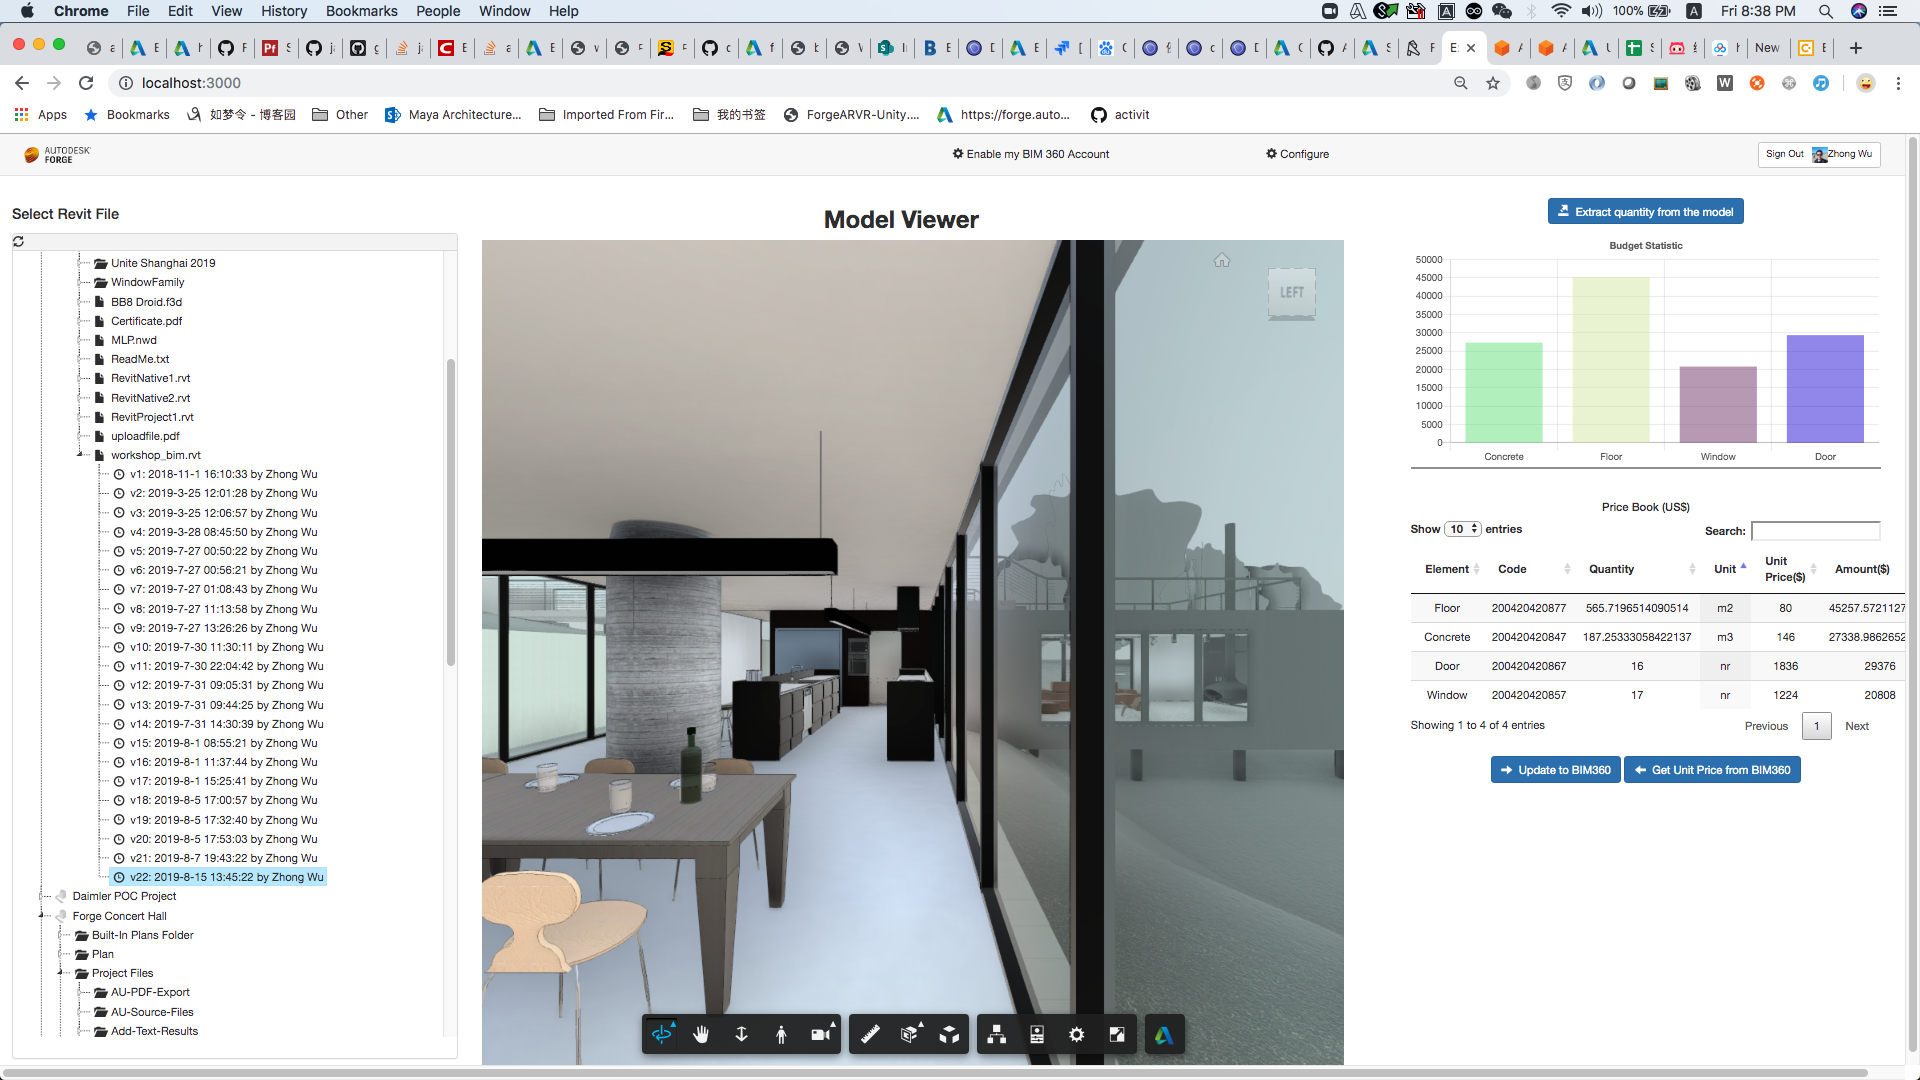
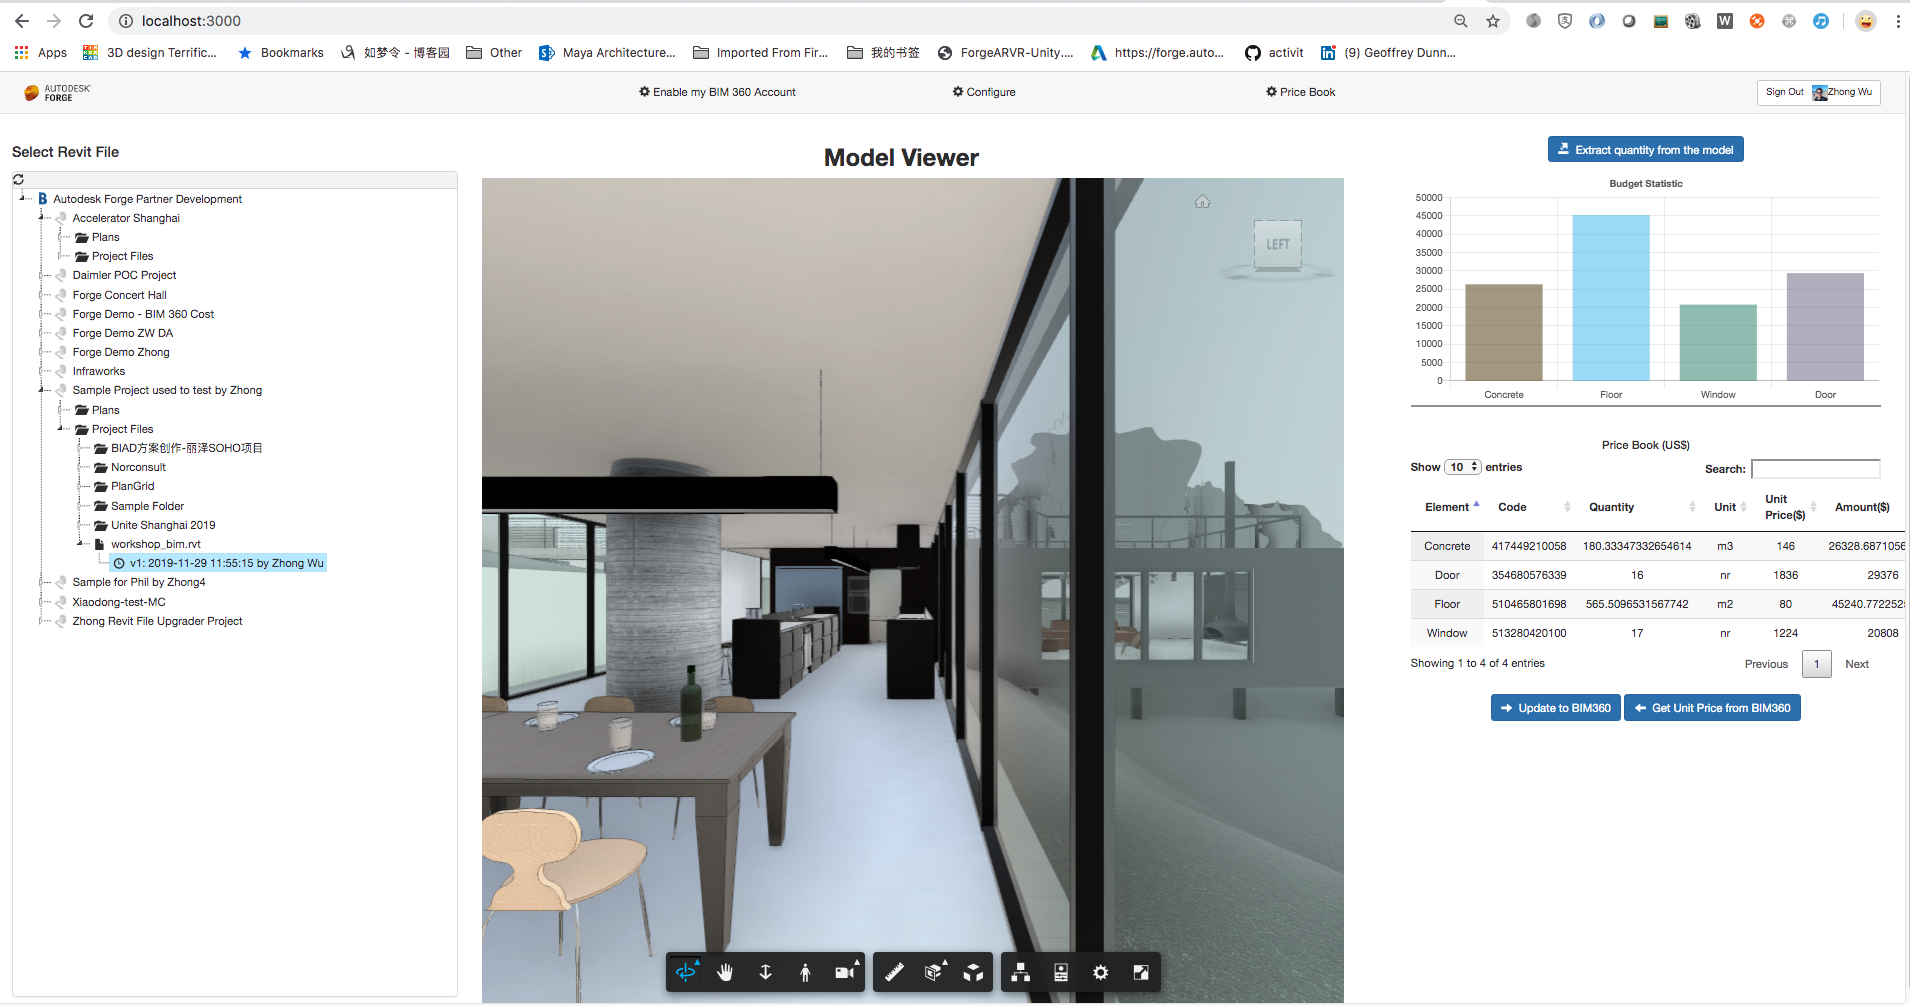
update readme and fix some issues

Changed region(s): [[0.0, 0.0, 1.0, 1.0]]

diff --git a/public/js/ForgeDesignAutomation.js b/public/js/ForgeDesignAutomation.js
@@ -20,16 +20,6 @@
 var budgetMgrInstance = null;
 
 ///////////////////////////////////////////////////////////////////////
-/// Generate random color
-///////////////////////////////////////////////////////////////////////
-function random_rgba() {
-  var o = Math.round, r = Math.random, s = 255;
-  return 'rgba(' + o(r() * s) + ',' + o(r() * s) + ',' + o(r() * s) + ',' + 0.5 + ')';
-}
-
-
-
-///////////////////////////////////////////////////////////////////////
 /// Class to handle PriceBook database
 ///////////////////////////////////////////////////////////////////////
 class PriceBook {
@@ -42,7 +32,7 @@ class PriceBook {
     try {
       this.priceInfo = await getDataClientAsync(this.priceBookUrl);
     } catch (err) {
-      console.error(err);
+      console.log(err);
       this.priceInfo = null;
     }
   }
@@ -56,9 +46,19 @@ class PriceBook {
     return null;
   }
 
-  async updatePriceBook(budgetCode, unitPrice) {
+
+  getBudgetCodeLength(){
+    for (let key in this.priceInfo) {
+      if (this.priceInfo[key].budgetCodeLength != null) {
+        return this.priceInfo[key].budgetCodeLength;
+      }
+    }
+    return 0;
+  }
+
+  async updatePriceBook(budgetName, unitPrice) {
     const requestBody = {
-      budgetCode: budgetCode,
+      type: budgetName,
       unitPrice: unitPrice
     };
     try {
@@ -163,12 +163,12 @@ class BudgetTable {
       this.table.data().toArray().forEach((budgetItem) => {
         const item = {
           parentId: null,
-          code: budgetItem[1],
           name: budgetItem[0],
+          code: budgetItem[1],
           quantity: budgetItem[2],
-          description: "",
           unit: budgetItem[3],
-          unitPrice: budgetItem[4].toString()
+          unitPrice: budgetItem[4].toString(),
+          description: "budget description"
         }
         budgetData.push(item);
       })
@@ -176,13 +176,13 @@ class BudgetTable {
     return budgetData;
   }
 
-  updateBudgetsTable(budgetCode, unitPrice, amount) {
+  updateBudgetsTable(budgetName, unitPrice, amount) {
     if (this.table !== null) {
       let tableData = this.table.data();
       const budgetCount = tableData.length;
       // reset the data
       for (let i = 0; i < budgetCount; ++i) {
-        if (tableData[i][1] === budgetCode) {
+        if (tableData[i][0] === budgetName) {
           tableData[i][4] = unitPrice;
           tableData[i][5] = amount;
           break;
@@ -241,7 +241,14 @@ class BudgetManager {
       this.workingItem = null;
     }
     if (status === 'completed' && this.currentModelNode != null) {
-      console.log('Parameters are handled');
+      console.log('Work item is completed');
+
+      const budgetCodeLength = this.priceBook.getBudgetCodeLength();
+      if(budgetCodeLength == 0){
+        alert("budget code length is not set, please set it in price book database first." );
+        this.drawTableCallback();
+        return;
+      }
 
       let bar_labels = [];
       let bar_elementBudget = [];
@@ -256,7 +263,7 @@ class BudgetManager {
         bar_labels.push(elementKey);
         const elementPriceInfo = this.priceBook.getPriceInfoForElement(elementKey);
         if(elementPriceInfo == null){
-          console.error("can not find the price info for element: " + elementKey);
+          console.log("can not find the price info for element: " + elementKey);
           continue;
         }
         const unitPrice = elementPriceInfo['Price'];
@@ -265,8 +272,9 @@ class BudgetManager {
 
         bar_elementBudget.push(elementBudget);
         bar_colors.push(random_rgba());
+        const budgetCode = makeBudgetCode(budgetCodeLength);
 
-        table_dataSet.push([elementKey, elementPriceInfo['Code'], elementCount, elementPriceInfo['Unit'], unitPrice, elementBudget]);
+        table_dataSet.push([elementKey, budgetCode, elementCount, elementPriceInfo['Unit'], unitPrice, elementBudget]);
       }
       this.budgetTable.refreshTable(table_dataSet);
 
@@ -360,11 +368,11 @@ class BudgetManager {
     let budgetLabel = [];
     await Promise.all(
       budgetsRes.map(async (budgetItem) => {
-        const status = await this.priceBook.updatePriceBook(budgetItem['code'], budgetItem['unitPrice']);
+        const status = await this.priceBook.updatePriceBook(budgetItem['name'], budgetItem['unitPrice']);
         if (status) {
           budgetLabel.push(budgetItem['name']);
           budgetArray.push(budgetItem['unitPrice'] * budgetItem['quantity'])
-          this.budgetTable.updateBudgetsTable(budgetItem['code'], budgetItem['unitPrice'], budgetItem['unitPrice'] * budgetItem['quantity']);
+          this.budgetTable.updateBudgetsTable( budgetItem['name'],budgetItem['unitPrice'], budgetItem['unitPrice'] * budgetItem['quantity']);
         }
       })
     )
@@ -484,6 +492,23 @@ async function getUnitPriceFromBIM360Handler() {
   $('#unitPriceFromBIM360Btn')[0].disabled = false;
 }
 
+
+/// helper function to generate random color
+function random_rgba() {
+  var o = Math.round, r = Math.random, s = 255;
+  return 'rgba(' + o(r() * s) + ',' + o(r() * s) + ',' + o(r() * s) + ',' + 0.5 + ')';
+}
+
+/// helper function to generate ramdom budget code
+function makeBudgetCode(length) {
+  var result           = '';
+  var characters       = '0123456789';
+  var charactersLength = characters.length;
+  for ( var i = 0; i < length; i++ ) {
+     result += characters.charAt(Math.floor(Math.random() * charactersLength));
+  }
+  return result;
+}
 
 // helper function for GET Request
 function getDataClientAsync(requestUrl, requestData=null) {

diff --git a/routes/bim360cost.js b/routes/bim360cost.js
@@ -30,25 +30,19 @@ const price_Book = [
     {
         "Type": "Concrete",
         "Price": 146,
-        "Unit": "m3",
-        "Code": "200420420847"
-
+        "Unit": "m3"
     }, {
         "Type": "Window",
         "Price": 1224,
-        "Unit": "nr",
-        "Code": "200420420857"
+        "Unit": "nr"
     }, {
         "Type": "Door",
         "Price": 1836,
-        "Unit": "nr",
-        "Code": "200420420867"
-
+        "Unit": "nr"
     }, {
         "Type": "Floor",
         "Price": 80,
-        "Unit": "m2",
-        "Code": "200420420877"
+        "Unit": "m2"
     }
 ]
 
@@ -101,7 +95,10 @@ router.post('/bim360/v1/database', async (req, res, next) => {
                             }));
                         }
             
-                        collection.insertMany(price_Book, (err, docs) => {
+                        let priceBookInfo = price_Book;
+                        const budgetCodeLength = req.body.budgetCodeLength;
+                        priceBookInfo.push({'budgetCodeLength': budgetCodeLength});
+                        collection.insertMany(priceBookInfo, (err, docs) => {
                             if (err) {
                                 console.error(err);
                                 return (res.status(500).json({
@@ -122,7 +119,9 @@ router.post('/bim360/v1/database', async (req, res, next) => {
                             diagnostic: "failed to create collection"
                         }));
                     }
-        
+                    let priceBookInfo = price_Book;
+                    const budgetCodeLength = req.body.budgetCodeLength;
+                    priceBookInfo.push({'budgetCodeLength': budgetCodeLength});
                     collection.insertMany(price_Book, (err, docs) => {
                         if (err) {
                             console.error(err);
@@ -186,7 +185,7 @@ router.post('/bim360/v1/pricebook', async (req, res, next) => {
         }
         const collection = mongoClient.db("Standard_Book").collection("Price_Book");
         // perform actions on the collection object
-        collection.updateOne({ "Code": requestBody.budgetCode }, { $set: { "Price": requestBody.unitPrice } }, function (err, result) {
+        collection.updateOne({ "Type": requestBody.type }, { $set: { "Price": requestBody.unitPrice } }, function (err, result) {
             if (err) {
                 console.error(err);
                 mongoClient.close();

diff --git a/public/index.html b/public/index.html
@@ -299,8 +299,13 @@
             <h4 class="modal-title">Price Book Setting</h4>
           </div>
           <div class="modal-body">
-            <div class="alert alert-warning"><center>Click the "Initialize" button to reset the Price Book database to the default as follow</center></div>
-
+            <div class="alert alert-warning"><center>Provide "Length of budget code" according to your set in "Budget Code Template" and click the "Reset" button to reset the Price Book database to the default as follow</center></div>
+            <div class="row">
+              <div class="col-md-6"><h5>Length of budget code</h5> </div> 
+              <div class="col-md-6">
+                <div><input type="number" min="0" id="budgetCodeLength" value="4"></div>
+              </div>
+            </div>
             <table class="table table-condensed">
               <caption>Sample Price Book</caption>
               <thead>
@@ -308,7 +313,6 @@
                   <th>Type</th>
                   <th>Price</th>
                   <th>Unit</th>
-                  <th>Code</th>
                 </tr>
               </thead>
               <tbody>
@@ -316,25 +320,21 @@
                   <td>Concrete</td>
                   <td>146.00</td>
                   <td>m3</td>
-                  <td>200420420847</td>
                 </tr>
                 <tr>
                   <td>Door</td>
                   <td>1988.00</td>
                   <td>nr</td>
-                  <td>200420420867</td>
                 </tr>
                 <tr>
                   <td>Floor</td>
                   <td>80.00</td>
                   <td>m2</td>
-                  <td>200420420877</td>
                 </tr>
                   <tr>
                     <td>Window</td>
                     <td>1224.00</td>
                     <td>nr</td>
-                    <td>200420420857</td>
                   </tr>
                 </tbody>
             </table>

diff --git a/public/js/DAConfigure.js b/public/js/DAConfigure.js
@@ -82,8 +82,10 @@ function list(control, endpoint) {
 async function resetPriceBook(){
     $('.resetingPriceBook').show();
     $('#resetPriceBook').hide();
+
+    const budgetCodeLength = parseInt($('#budgetCodeLength').val());
     try{
-        await initPriceBook();
+        await initPriceBook(budgetCodeLength);
     }catch(err){
         console.error(err);
     }
@@ -152,7 +154,7 @@ async function createAppBundleActivity() {
 }
 
 
-function initPriceBook(){
+function initPriceBook( budgetCodeLength ){
     let def = $.Deferred();
 
     jQuery.ajax({
@@ -160,6 +162,9 @@ function initPriceBook(){
         method: 'POST',
         contentType: 'application/json',
         dataType: 'json',
+        data: JSON.stringify({
+            budgetCodeLength: budgetCodeLength
+        }),
         success: function (res) {
             def.resolve(res);
         },

diff --git a/README.md b/README.md
@@ -111,7 +111,8 @@ Open the browser: [http://localhost:3000](http://localhost:3000).
 **Setup the app before using the App:**
 1. Make sure the Forge App is integrated with your BIM 360 account, please click **Enable my BIM 360 Account** button and follow the steps to finish the integration. 
 2. Make sure to create **Revi Design Automation** Appbundle & activity, click **Configure** button and create it. Please check the video at [https://youtu.be/1NCeH7acIko](https://youtu.be/1NCeH7acIko) for reference. Currently, Revit 2019|2020 are both supported. 
-3. Make sure to initialize the **Price Book** database, open **Price Book** dialog and **Reset**, it will create **Standard_Book**(database), **Price_Book**(collection), with a couple of predefined price items.  
+3. Make sure to [Create BIM360 project, activate Cost Management module, setup project for Cost Management](https://help.autodesk.com/view/BIM360D/ENU/?guid=BIM360D_Cost_Management_getting_started_with_cost_management_html).
+4. Make sure to initialize the **Price Book** database, open **Price Book** dialog, set **Length of Budget Code** according to your definition for **Budget Code Template**, and click **Reset** button, it will create **Standard_Book**(database), **Price_Book**(collection), with a couple of predefined price items.
 
 **Operate with App after setup**
 1. Select Revit file version in BIM360 Hub to view the Model, Click `Extract quantity from the model` button, it will extract the quantity and display you with the budgets info for different elements.
@@ -158,7 +159,7 @@ Watch [this video](https://www.youtube.com/watch?v=Oqa9O20Gj0c) on how deploy sa
     git config --global http.sslverify "false"
 
 ## Limitation
-- BIM 360 Cost Management module needs to be activated to use this App, due to the current limitation of Cost project setting API, user needs to setup project manually. 
+- BIM 360 Cost Management module needs to be activated to use this App, due to the current limitation of BIM 360 API, user needs to activate **Cost Management** module, and create **Budget Code Template** in cost project setting manually. Please check [Create BIM360 project, activate Cost Management module, setup project for Cost Management](https://help.autodesk.com/view/BIM360D/ENU/?guid=BIM360D_Cost_Management_getting_started_with_cost_management_html) for details.
 - Currently Revit Cloud Worksharing is not supported by the Design Automation.  The scenario that this sample demonstrates is applicable only with a file-based Revit model. 
 - Client JavaScript requires modern browser.
 
